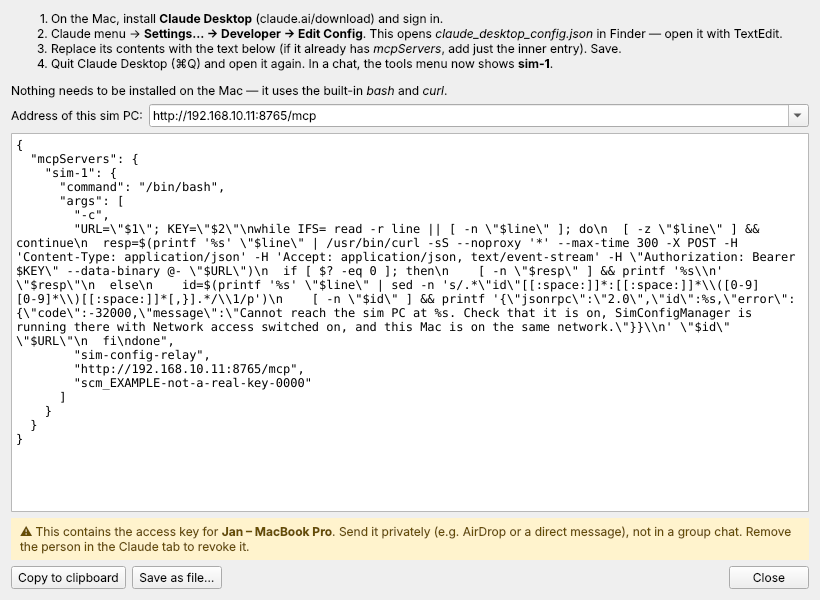
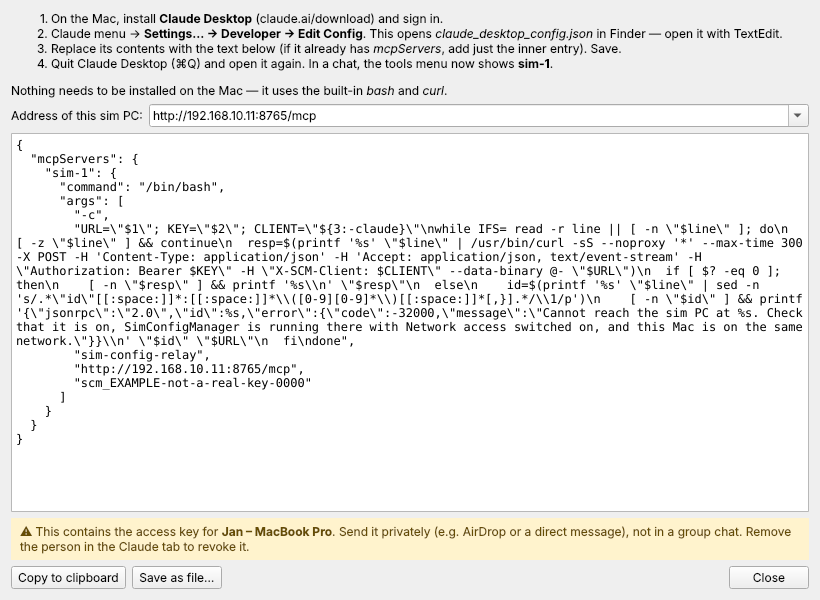
ChatGPT access through an engineer's Mac (1.7.0)
Uses OpenAI's Secure MCP Tunnel with tunnel-client running on the
engineer's MacBook: outbound-only to OpenAI, relaying over the LAN to the
sim PC with that person's access key. Nothing is exposed to the internet,
and ChatGPT can only reach a sim while the Mac's "Start ChatGPT access"
window is open.

- "Setup for ChatGPT (via a Mac)" generates a setup script: checks the sim,
  installs tunnel-client via Homebrew, writes the relay, stores the runtime
  key in the macOS Keychain, runs tunnel-client init/doctor, and creates
  the on/off launcher.
- Requests are tagged by assistant (Claude / ChatGPT): shown in the event
  log, last-connected column and on proposals ("ChatGPT via Jan").
- Test runs the generated script end to end with stand-ins for brew,
  tunnel-client and the Keychain.

Claude-Session: https://claude.ai/code/session_016kxyQFznxuykWFpy4DvMqX

Changed region(s): [[0.0, 0.36, 0.9756, 0.6]]

diff --git a/simconfigmanager/net.py b/simconfigmanager/net.py
@@ -27,6 +27,7 @@ from typing import Callable, Optional
 from .core import APP_NAME, APP_VERSION
 
 DEFAULT_PORT = 8765
+CLIENT_NAMES = {"claude": "Claude", "chatgpt": "ChatGPT"}
 FIREWALL_RULE = f"{APP_NAME} - Claude network access"
 
 
@@ -84,7 +85,8 @@ class NetworkServer:
         self.port = port
         self.host = host
         self.keys: list[dict] = []          # replaced by the app whenever keys change
-        self.last_seen: dict[str, tuple[float, str]] = {}   # key name -> (time, ip)
+        self.last_seen: dict[str, tuple[float, str]] = {}   # key name -> (time, "ip (client)")
+        self.recent: dict[str, float] = {}
         self.on_activity = on_activity
         self.httpd: Optional[ThreadingHTTPServer] = None
         self.thread: Optional[threading.Thread] = None
@@ -160,12 +162,15 @@ class NetworkServer:
                 if msg is None:
                     return rpc_error(-32700, 400, "Parse error")
                 ip = self.client_address[0]
-                first = key["name"] not in server.last_seen or time.time() - server.last_seen[key["name"]][0] > 600
-                server.last_seen[key["name"]] = (time.time(), ip)
+                client = CLIENT_NAMES.get((self.headers.get("X-SCM-Client") or "claude").strip().lower(), "Claude")
+                tag = f"{key['name']} / {client}"
+                first = tag not in server.recent or time.time() - server.recent[tag] > 600
+                server.recent[tag] = time.time()
+                server.last_seen[key["name"]] = (time.time(), f"{ip} ({client})")
                 if first and server.on_activity:
-                    server.on_activity(f"Claude connected over the network: {key['name']} from {ip}")
+                    server.on_activity(f"{client} connected over the network: {key['name']} from {ip}")
                 from .mcp_server import Server
-                handler = Server(server.data_dir, author=f"Claude via {key['name']}",
+                handler = Server(server.data_dir, author=f"{client} via {key['name']}",
                                  may_propose=bool(key.get("may_propose", True)))
                 if isinstance(msg, list):
                     resp = [r for r in (handler.handle(m) for m in msg if isinstance(m, dict)) if r]
@@ -174,7 +179,7 @@ class NetworkServer:
                 if isinstance(msg, dict) and msg.get("method") == "tools/call" and server.on_activity:
                     tool = (msg.get("params") or {}).get("name")
                     if tool == "propose_change":
-                        server.on_activity(f"{key['name']} (via Claude) proposed a change")
+                        server.on_activity(f"{key['name']} (via {client}) proposed a change")
                 if not resp:
                     return self._send(202)
                 self._send(200, (json.dumps(resp, ensure_ascii=False) + "\n").encode("utf-8"))
@@ -236,10 +241,10 @@ def unreachable_text(url: str, err=None) -> str:
 
 
 # Relay for macOS (and Linux): bash + curl, both present on every Mac — nothing to download or install.
-MAC_RELAY = r'''URL="$1"; KEY="$2"
+MAC_RELAY = r'''URL="$1"; KEY="$2"; CLIENT="${3:-claude}"
 while IFS= read -r line || [ -n "$line" ]; do
   [ -z "$line" ] && continue
-  resp=$(printf '%s' "$line" | /usr/bin/curl -sS --noproxy '*' --max-time 300 -X POST -H 'Content-Type: application/json' -H 'Accept: application/json, text/event-stream' -H "Authorization: Bearer $KEY" --data-binary @- "$URL")
+  resp=$(printf '%s' "$line" | /usr/bin/curl -sS --noproxy '*' --max-time 300 -X POST -H 'Content-Type: application/json' -H 'Accept: application/json, text/event-stream' -H "Authorization: Bearer $KEY" -H "X-SCM-Client: $CLIENT" --data-binary @- "$URL")
   if [ $? -eq 0 ]; then
     [ -n "$resp" ] && printf '%s\n' "$resp"
   else
@@ -295,3 +300,89 @@ def check_reachable(url: str, timeout: float = 3) -> bool:
 
 def hostname() -> str:
     return os.environ.get("COMPUTERNAME") or socket.gethostname()
+
+
+# --------------------------------------------------------------------------- ChatGPT via the engineer's Mac
+#
+# ChatGPT reaches MCP servers from OpenAI's cloud. OpenAI's Secure MCP Tunnel avoids exposing anything: the
+# engineer runs OpenAI's `tunnel-client` on their own Mac; it opens an OUTBOUND connection to OpenAI, receives
+# ChatGPT's requests and hands them to a local command — our relay — which forwards them over the LAN to the
+# sim PC with the engineer's personal key. ChatGPT can only reach the sim while that Mac runs the tunnel.
+
+def _sh(v: str) -> str:
+    import shlex
+    return shlex.quote(v)
+
+
+def relay_script(url: str, key: str, client: str = "chatgpt") -> str:
+    """Standalone relay file (values baked in) — used as tunnel-client's --mcp-command."""
+    return ("#!/bin/bash\n# SimConfigManager relay: stdio <-> sim PC over the LAN. Contains a personal access key.\n"
+            f"set -- {_sh(url)} {_sh(key)} {_sh(client)}\n" + MAC_RELAY + "\n")
+
+
+def chatgpt_setup_script(sim_name: str, person: str, url: str, key: str) -> str:
+    """One-time setup for the engineer's Mac. Run with:  bash setup-chatgpt-<sim>.command"""
+    import re
+    slug = server_key_name(sim_name)
+    sim_disp = re.sub(r"[^A-Za-z0-9 ._-]", "", sim_name) or slug
+    relay = relay_script(url, key, "chatgpt")
+    return f"""#!/bin/bash
+# SimConfigManager — set up ChatGPT access to {sim_disp} on THIS Mac ({person}).
+# Run it in Terminal:   bash ~/Downloads/setup-chatgpt-{slug}.command
+# Needs: Homebrew (https://brew.sh), an OpenAI tunnel ID and a runtime API key (see the steps in the app).
+set -e
+SIM={_sh(sim_disp)}
+SLUG={_sh(slug)}
+URL={_sh(url)}
+DIR="$HOME/SimConfigManager"
+PROFILE="scm-$SLUG"
+mkdir -p "$DIR" && chmod 700 "$DIR"
+
+echo "== 1/5  Checking the connection to $SIM ($URL)"
+if /usr/bin/curl -s --noproxy '*' --max-time 5 "${{URL%/mcp}}/health" | grep -q SimConfigManager; then
+  echo "       OK - $SIM answers."
+else
+  echo "       Can't reach $SIM right now (is this Mac on the sim network and is network access on?)."
+  echo "       Setup continues; it will work once the sim PC is reachable."
+fi
+
+echo "== 2/5  OpenAI tunnel-client"
+if ! command -v tunnel-client >/dev/null 2>&1; then
+  if ! command -v brew >/dev/null 2>&1; then
+    echo "       Homebrew is needed first: open https://brew.sh, install it, then run this script again."; exit 1
+  fi
+  brew install openai/tools/tunnel-client
+fi
+tunnel-client --version || true
+
+echo "== 3/5  Writing the relay to $DIR/$SLUG-relay.sh"
+cat > "$DIR/$SLUG-relay.sh" <<'SCM_RELAY'
+{relay}SCM_RELAY
+chmod 700 "$DIR/$SLUG-relay.sh"
+
+echo "== 4/5  Linking your OpenAI tunnel"
+read -r -p "       Tunnel ID (starts with tunnel_): " TID
+read -r -s -p "       Runtime API key (input hidden): " RKEY; echo
+security add-generic-password -U -s "SimConfigManager tunnel $SLUG" -a "$USER" -w "$RKEY"
+echo "       Key saved in your macOS Keychain."
+export CONTROL_PLANE_API_KEY="$RKEY"
+tunnel-client init --sample sample_mcp_stdio_local --profile "$PROFILE" --tunnel-id "$TID" \\
+  --mcp-command "/bin/bash $DIR/$SLUG-relay.sh"
+tunnel-client doctor --profile "$PROFILE" --explain || echo "       (doctor reported problems - see above)"
+
+echo "== 5/5  Creating the on/off switch"
+START="$DIR/Start ChatGPT access - $SIM.command"
+cat > "$START" <<SCM_START
+#!/bin/bash
+# Double-click to let ChatGPT reach $SIM through this Mac. Close the window (or Ctrl+C) to stop.
+export CONTROL_PLANE_API_KEY="\\$(security find-generic-password -s 'SimConfigManager tunnel $SLUG' -a "\\$USER" -w)"
+echo "ChatGPT can now reach $SIM through this Mac. Close this window to stop."
+exec tunnel-client run --profile "$PROFILE"
+SCM_START
+chmod 700 "$START"
+echo
+echo "Done. To switch ChatGPT access on: double-click"
+echo "   $START"
+echo "Then in ChatGPT add the connector once (Add custom MCP server -> Connection: Tunnel)."
+open "$DIR" 2>/dev/null || true
+"""

diff --git a/simconfigmanager/gui.py b/simconfigmanager/gui.py
@@ -432,7 +432,8 @@ class NetSetupDialog(QDialog):
     def __init__(self, sim_name: str, key: dict, urls: list[str], kind: str, parent=None):
         super().__init__(parent)
         self.sim_name, self.key, self.kind = sim_name, key, kind
-        self.setWindowTitle(f"Setup for {key['name']} ({'Mac' if kind == 'mac' else 'Windows laptop'})")
+        self.setWindowTitle(f"Setup for {key['name']} (" + {"mac": "Claude on a Mac", "windows": "Claude on a Windows "
+                            "laptop", "chatgpt": "ChatGPT via a Mac"}[kind] + ")")
         self.resize(820, 600)
         lay = QVBoxLayout(self)
         if kind == "mac":
@@ -444,6 +445,23 @@ class NetSetupDialog(QDialog):
                      "<li>Quit Claude Desktop (⌘Q) and open it again. In a chat, the tools menu now shows "
                      f"<b>{html.escape(net.server_key_name(sim_name))}</b>.</li></ol>"
                      "Nothing needs to be installed on the Mac — it uses the built-in <i>bash</i> and <i>curl</i>.")
+        elif kind == "chatgpt":
+            steps = ("ChatGPT connects from OpenAI's cloud, so it goes through OpenAI's <b>Secure MCP Tunnel</b> "
+                     "running on this person's Mac: the Mac only connects <i>outward</i> to OpenAI and passes requests "
+                     "to this sim over the LAN. Nothing on the sim PC or your network is opened to the internet, and "
+                     "ChatGPT can only reach the sim while that Mac has it switched on."
+                     "<ol><li><b>OpenAI (once):</b> platform.openai.com → Settings → Organization → <b>Tunnels</b>: "
+                     "create a tunnel, link it to your ChatGPT workspace, copy the <i>tunnel ID</i>. Create a "
+                     "<i>runtime API key</i> with Tunnels <i>Read + Use</i>.</li>"
+                     "<li><b>Mac (once):</b> Save the script below and AirDrop it to the Mac. In Terminal run "
+                     "<code>bash ~/Downloads/" + f"setup-chatgpt-{html.escape(net.server_key_name(sim_name))}.command"
+                     + "</code> and paste the tunnel ID and key when asked (the key goes into the macOS Keychain). "
+                     "It installs OpenAI's tunnel-client with Homebrew.</li>"
+                     "<li><b>ChatGPT (once):</b> Settings → Apps &amp; Connectors (turn on Developer mode if needed) "
+                     "→ <b>Add custom MCP server</b> → Connection: <b>Tunnel</b> → choose the tunnel. If asked for "
+                     "authentication, choose none: the tunnel and this sim's personal key control access.</li>"
+                     "<li><b>Daily use:</b> on the Mac, double-click <i>Start ChatGPT access</i> in the "
+                     "<i>SimConfigManager</i> folder. Close that window to cut ChatGPT off.</li></ol>")
         else:
             steps = ("<ol><li>Copy <b>SimConfigManager-MCP.exe</b> to the laptop, e.g. "
                      "<i>C:\\SimConfigManager\\</i> (adjust the path below if you put it elsewhere).</li>"
@@ -474,7 +492,7 @@ class NetSetupDialog(QDialog):
         lay.addWidget(warn)
         row = QHBoxLayout()
         b = QPushButton("Copy to clipboard")
-        b.clicked.connect(lambda: QApplication.clipboard().setText(self.text.toPlainText()))
+        b.clicked.connect(lambda: QApplication.clipboard().setText(self.content()))
         row.addWidget(b)
         b = QPushButton("Save as file…")
         b.clicked.connect(self.save_file)
@@ -488,17 +506,29 @@ class NetSetupDialog(QDialog):
 
     def config(self) -> dict:
         url = self.url.currentText().strip()
+        if self.kind == "chatgpt":
+            return {}
         if self.kind == "mac":
             return net.mac_config(self.sim_name, url, self.key["key"])
         return net.windows_config(self.sim_name, url, self.key["key"])
 
+    def content(self) -> str:
+        if self.kind == "chatgpt":
+            return net.chatgpt_setup_script(self.sim_name, self.key["name"], self.url.currentText().strip(),
+                                            self.key["key"])
+        return json.dumps(self.config(), indent=2)
+
     def update_text(self, *_):
-        self.text.setPlainText(json.dumps(self.config(), indent=2))
+        self.text.setPlainText(self.content())
 
     def save_file(self):
-        p, _ = QFileDialog.getSaveFileName(self, "Save", "claude_desktop_config.json", "JSON (*.json)")
+        if self.kind == "chatgpt":
+            name = f"setup-chatgpt-{net.server_key_name(self.sim_name)}.command"
+            p, _ = QFileDialog.getSaveFileName(self, "Save", name, "Mac script (*.command)")
+        else:
+            p, _ = QFileDialog.getSaveFileName(self, "Save", "claude_desktop_config.json", "JSON (*.json)")
         if p:
-            Path(p).write_text(json.dumps(self.config(), indent=2), encoding="utf-8")
+            Path(p).write_bytes(self.content().encode("utf-8"))  # LF line endings, also when saved on Windows
 
 
 class ProposalDialog(QDialog):
@@ -507,7 +537,7 @@ class ProposalDialog(QDialog):
     def __init__(self, repo: Repo, prop: dict, parent=None):
         super().__init__(parent)
         self.repo, self.prop = repo, prop
-        self.setWindowTitle(f"Claude's proposed change — {prop['label']}")
+        self.setWindowTitle(f"Proposed change — {prop['label']}")
         self.resize(980, 640)
         lay = QVBoxLayout(self)
         f = repo.file(prop["file_id"])
@@ -518,7 +548,7 @@ class ProposalDialog(QDialog):
                       f" · status: <b>{prop['status']}</b>")
         head.setTextFormat(Qt.RichText)
         lay.addWidget(head)
-        reason = QLabel("<b>Claude's reason:</b><br>" + html.escape(prop["reason"]).replace("\n", "<br>"))
+        reason = QLabel("<b>Reason given:</b><br>" + html.escape(prop["reason"]).replace("\n", "<br>"))
         reason.setWordWrap(True)
         reason.setTextFormat(Qt.RichText)
         reason.setStyleSheet("background:#eef4fb; padding:8px; border-radius:4px")
@@ -2087,7 +2117,8 @@ class MainWindow(QMainWindow):
         row = QHBoxLayout()
         for text, fn in (("Add person…", self.add_net_key), ("Remove access", self.remove_net_key),
                          ("Setup for a Mac…", lambda: self.show_net_setup("mac")),
-                         ("Setup for a Windows laptop…", lambda: self.show_net_setup("windows"))):
+                         ("Setup for a Windows laptop…", lambda: self.show_net_setup("windows")),
+                         ("Setup for ChatGPT (via a Mac)…", lambda: self.show_net_setup("chatgpt"))):
             b = QPushButton(text)
             b.clicked.connect(fn)
             row.addWidget(b)

diff --git a/tests/test_net.py b/tests/test_net.py
@@ -109,5 +109,82 @@ def test_network():
     print("NETWORK TESTS PASSED")
 
 
+
+FAKE_TUNNEL_CLIENT = r'''#!/bin/bash
+# stand-in for OpenAI's tunnel-client: remembers init settings, and on "run" drives the MCP command like the
+# real client does (JSON-RPC lines over its stdin/stdout)
+STATE="$HOME/.fake-tunnel"
+case "$1" in
+  --version) echo "tunnel-client fake 0.0";;
+  init) shift; while [ $# -gt 0 ]; do case "$1" in --profile) P="$2";; --tunnel-id) T="$2";; --mcp-command) C="$2";; esac; shift; done
+        mkdir -p "$STATE"; printf '%s\n' "$T" > "$STATE/$P.tid"; printf '%s\n' "$C" > "$STATE/$P.cmd";;
+  doctor) echo "doctor ok";;
+  run) P="$3"; printf '%s\n' "$CONTROL_PLANE_API_KEY" > "$STATE/$P.runkey"
+       printf '%s\n%s\n' '{"jsonrpc":"2.0","id":1,"method":"initialize","params":{"protocolVersion":"2025-06-18","capabilities":{},"clientInfo":{"name":"openai-tunnel","version":"1"}}}' \
+         '{"jsonrpc":"2.0","id":2,"method":"tools/call","params":{"name":"propose_change","arguments":{"file":"Prepar3D.cfg","reason":"via ChatGPT","replacements":[{"find":"FULLSCREEN=True","replace":"FULLSCREEN=False"}]}}}' \
+         | eval "$(cat "$STATE/$P.cmd")" > "$STATE/$P.out";;
+esac
+'''
+FAKE_SECURITY = r'''#!/bin/bash
+# stand-in for macOS "security" (Keychain)
+F="$HOME/.fake-keychain"
+if [ "$1" = add-generic-password ]; then while [ $# -gt 0 ]; do [ "$1" = -w ] && printf '%s' "$2" > "$F"; shift; done
+elif [ "$1" = find-generic-password ]; then cat "$F"; fi
+'''
+
+
+def test_chatgpt_mac_setup():
+    if not shutil.which("bash") or not Path("/usr/bin/curl").exists():
+        return  # the Mac scripts need bash + curl (CI on Windows skips this)
+    tmp = Path(tempfile.mkdtemp())
+    repo, sim = make_repo(tmp)
+    k = net.add_key(repo, "Jan – MacBook", may_propose=True)
+    port = free_port()
+    srv = net.NetworkServer(repo.data_dir, port=port, host="127.0.0.1")
+    srv.keys = net.load_keys(repo)
+    srv.start()
+    try:
+        url = f"http://127.0.0.1:{port}/mcp"
+        script = net.chatgpt_setup_script("Sim 1", "Jan", url, k["key"])
+        home, bindir = tmp / "home", tmp / "bin"
+        home.mkdir()
+        bindir.mkdir()
+        for name, body in (("tunnel-client", FAKE_TUNNEL_CLIENT), ("security", FAKE_SECURITY),
+                           ("open", "#!/bin/bash\nexit 0\n"), ("brew", "#!/bin/bash\nexit 0\n")):
+            (bindir / name).write_text(body)
+            (bindir / name).chmod(0o755)
+        (tmp / "setup.command").write_text(script)
+        env = {"HOME": str(home), "USER": "jan", "PATH": f"{bindir}:/usr/bin:/bin"}
+        assert subprocess.run(["bash", "-n", str(tmp / "setup.command")]).returncode == 0
+        r = subprocess.run(["bash", str(tmp / "setup.command")], input=b"tunnel_abc123\nsk-runtime-secret\n",
+                           capture_output=True, env=env, timeout=60)
+        assert r.returncode == 0, r.stdout.decode() + r.stderr.decode()
+        out = r.stdout.decode()
+        assert "OK - Sim 1 answers" in out, out
+        d = home / "SimConfigManager"
+        relay = d / "sim-1-relay.sh"
+        assert relay.exists() and oct(relay.stat().st_mode)[-3:] == "700"
+        assert (home / ".fake-tunnel" / "scm-sim-1.tid").read_text().strip() == "tunnel_abc123"
+        assert (home / ".fake-keychain").read_text() == "sk-runtime-secret"
+        assert "sk-runtime-secret" not in "".join(p.read_text() for p in d.iterdir())  # API key only in Keychain
+
+        # the on/off switch: starts the tunnel with the key from the Keychain, ChatGPT's calls reach the sim
+        start = d / "Start ChatGPT access - Sim 1.command"
+        assert start.exists()
+        r = subprocess.run(["bash", str(start)], capture_output=True, env=env, timeout=60)
+        assert r.returncode == 0, r.stderr.decode()
+        assert (home / ".fake-tunnel" / "scm-sim-1.runkey").read_text().strip() == "sk-runtime-secret"
+        lines = [json.loads(x) for x in (home / ".fake-tunnel" / "scm-sim-1.out").read_text().splitlines()]
+        assert lines[0]["result"]["serverInfo"]["name"] == "sim-config-manager", lines
+        assert not lines[1]["result"]["isError"], lines[1]
+        props = core.list_proposals(repo, "pending")
+        assert props and props[-1]["author"] == "ChatGPT via Jan – MacBook", props
+        assert "ChatGPT" in srv.last_seen["Jan – MacBook"][1]
+        print("CHATGPT MAC SETUP TESTS PASSED")
+    finally:
+        srv.stop()
+
+
 if __name__ == "__main__":
     test_network()
+    test_chatgpt_mac_setup()

diff --git a/tools/make_screenshots.py b/tools/make_screenshots.py
@@ -254,4 +254,8 @@ demo_key = {"name": "Jan – MacBook Pro", "key": "scm_EXAMPLE-not-a-real-key-00
 nd = gui.NetSetupDialog("Sim 1", demo_key, ["http://192.168.10.11:8765/mcp", "http://sim1.local:8765/mcp"], "mac", w)
 nd.resize(820, 600)
 shot(nd, "claude-network.png")
+nd = gui.NetSetupDialog("Sim 1", demo_key, ["http://192.168.10.11:8765/mcp", "http://sim1.local:8765/mcp"],
+                        "chatgpt", w)
+nd.resize(860, 680)
+shot(nd, "chatgpt-setup.png")
 print("done →", OUT)

diff --git a/simconfigmanager/core.py b/simconfigmanager/core.py
@@ -35,7 +35,7 @@ from pathlib import Path
 from typing import Callable, Iterable, Optional
 
 APP_NAME = "SimConfigManager"
-APP_VERSION = "1.6.0"
+APP_VERSION = "1.7.0"
 LEGACY_NAMES = ("SimConfigKeeper",)   # earlier name of this app (≤ 1.3)
 
 

diff --git a/README.md b/README.md
@@ -68,6 +68,7 @@ publishes `v<version>` automatically (existing releases are never overwritten).
 | **Import archive** on this or another PC (paths translated, checksums verified) | Files → Import archive |
 | **Claude connector**: Claude reads configs, history, versions and other sims; proposes changes you approve | Claude |
 | **Claude from mechanics' MacBooks** over the LAN, with a personal access key per person | Claude → Network access |
+| **ChatGPT** via OpenAI's Secure MCP Tunnel running on an engineer's Mac (nothing exposed to the internet) | Claude → Network access |
 | Runs in the tray, starts with Windows, single instance | Settings |
 
 ### Alert rule types
@@ -151,6 +152,35 @@ Mechanics can use Claude Desktop on their own laptop and talk to a sim PC over t
 * Windows laptops: **Setup for a Windows laptop…** (uses `SimConfigManager-MCP.exe --remote <url> --key <key>`).
 * The connection is plain HTTP inside your LAN with a secret key per person. Don't forward the port on the
   router / expose it to the internet.
+
+### ChatGPT, through an engineer's Mac
+
+ChatGPT talks to connectors from OpenAI's cloud. To keep the sims off the internet, it goes through OpenAI's
+[Secure MCP Tunnel](https://developers.openai.com/api/docs/guides/secure-mcp-tunnels), run **on the
+engineer's own MacBook**:
+
+```
+ChatGPT ⇄ OpenAI ⇄ tunnel-client on Jan's Mac (outbound only) ⇄ relay ⇄ LAN ⇄ SimConfigManager on Sim 1
+```
+
+* Nothing on the sim PC or your network is reachable from the internet; no router changes.
+* The OpenAI login and keys live only on that Mac (runtime key in the macOS Keychain).
+* ChatGPT can only reach the sim while the engineer has **Start ChatGPT access** running — close the window
+  and it's cut off. The sim still checks that person's access key, and proposals show *"ChatGPT via Jan"*.
+
+Setup: on the sim PC, **Claude** tab → Network access → select the person → **Setup for ChatGPT (via a Mac)…**.
+It shows the steps and a setup script for the Mac:
+
+1. **OpenAI (once):** platform.openai.com → Settings → Organization → **Tunnels**: create a tunnel linked to your
+   ChatGPT workspace; create a runtime API key with Tunnels *Read + Use*.
+2. **Mac (once):** AirDrop the script, run `bash ~/Downloads/setup-chatgpt-sim-1.command`, paste the tunnel ID and
+   key. It installs OpenAI's `tunnel-client` with Homebrew and creates *Start ChatGPT access – Sim 1*.
+3. **ChatGPT (once):** Settings → Apps & Connectors (Developer mode if needed) → **Add custom MCP server** →
+   Connection: **Tunnel**.
+
+Availability of custom connectors and tunnels depends on your ChatGPT plan and workspace settings.
+
+![ChatGPT setup](docs/screenshots/chatgpt-setup.png)
 
 The connector is a standard MCP server (stdio), so other MCP clients work too:
 `SimConfigManager-MCP.exe [--data <data folder>]`.
